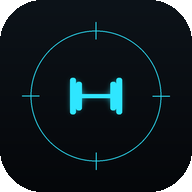
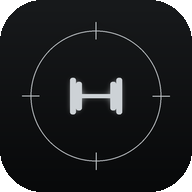
Retheme to monochrome tactical command-HUD palette
Shift the look toward a dark, modern military command screen (less blue, more
gunmetal/grey):
- Replace neon-cyan accent with light steel-grey; near-black gunmetal surfaces
- Desaturate background grid/glows; tone down all glows
- Use tactical red for personal-best badges/alerts (was amber); muted olive for
  "goal hit"/done states
- Recolor SVG charts (ring/line/bar) to steel + bright-ink readouts
- Regenerate reticle app icon in steel-grey on near-black; update SVG icon and
  theme-color / manifest colors
- Bump service-worker cache to v4 so installed apps pick up the new theme

diff --git a/css/styles.css b/css/styles.css
@@ -1,21 +1,22 @@
-/* ===== Gym Tracker — dark + neon blue, mobile-first ===== */
+/* ===== Field Ops Fitness — tactical monochrome (steel/grey + red), mobile-first ===== */
 :root {
-  --bg: #05070a;
-  --bg-2: #090d12;
-  --surface: #0d1319;
-  --surface-2: #141c25;
-  --line: rgba(120, 150, 160, .14);
-  --line-strong: rgba(90, 220, 235, .28);
-  --text: #d8e1e7;
-  --muted: #7d8a93;
-  --faint: #586772;
-  --accent: #2fe6ff;
-  --accent-2: #0bb6d6;
-  --accent-soft: rgba(47, 230, 255, .12);
-  --amber: #ffb02e;
-  --good: #46e08a;
-  --danger: #ff4d57;
-  --glow: 0 0 16px rgba(47, 230, 255, .40);
+  --bg: #0a0b0c;
+  --bg-2: #0e0f11;
+  --surface: #131517;
+  --surface-2: #1b1e21;
+  --line: rgba(255, 255, 255, .10);
+  --line-strong: rgba(255, 255, 255, .26);
+  --text: #e7e9ea;
+  --muted: #8b9196;
+  --faint: #5b6166;
+  --accent: #cdd2d6;          /* light steel — primary HUD highlight */
+  --accent-2: #8b9298;        /* mid gunmetal */
+  --accent-soft: rgba(205, 210, 214, .10);
+  --on-accent: #0c0d0e;       /* dark text on steel buttons */
+  --amber: #e2382d;           /* tactical red — records / standout markers */
+  --good: #9aa886;            /* muted olive — success/“goal hit” */
+  --danger: #e2382d;
+  --glow: 0 0 12px rgba(205, 212, 218, .14);
   --radius: 6px;
   --nav-h: 66px;
   --maxw: 520px;
@@ -33,11 +34,11 @@ html, body {
 }
 body {
   background:
-    linear-gradient(rgba(120, 160, 170, .035) 1px, transparent 1px) 0 0 / 100% 30px,
-    linear-gradient(90deg, rgba(120, 160, 170, .035) 1px, transparent 1px) 0 0 / 30px 100%,
-    radial-gradient(900px 520px at 82% -12%, rgba(47, 230, 255, .10), transparent 60%),
-    radial-gradient(760px 520px at -12% -4%, rgba(11, 182, 214, .08), transparent 58%),
-    radial-gradient(1000px 700px at 50% 120%, rgba(0, 0, 0, .55), transparent 60%),
+    linear-gradient(rgba(255, 255, 255, .022) 1px, transparent 1px) 0 0 / 100% 30px,
+    linear-gradient(90deg, rgba(255, 255, 255, .022) 1px, transparent 1px) 0 0 / 30px 100%,
+    radial-gradient(900px 520px at 82% -12%, rgba(255, 255, 255, .05), transparent 60%),
+    radial-gradient(760px 520px at -12% -4%, rgba(255, 255, 255, .035), transparent 58%),
+    radial-gradient(1000px 700px at 50% 120%, rgba(0, 0, 0, .6), transparent 60%),
     var(--bg);
   min-height: 100vh;
 }
@@ -94,7 +95,7 @@ body::after {
 .stat { padding: 12px 14px; display: flex; flex-direction: column; gap: 2px; }
 .stat-val { font-size: 1.4rem; font-weight: 800; letter-spacing: -.02em; }
 .stat-lbl { font-size: .72rem; color: var(--muted); text-transform: uppercase; letter-spacing: .04em; }
-.stat.accent { border-color: rgba(34, 211, 255, .35); box-shadow: var(--glow); }
+.stat.accent { border-color: var(--line-strong); box-shadow: var(--glow); }
 .stat.accent .stat-val { color: var(--accent); }
 
 /* ---- buttons ---- */
@@ -102,12 +103,12 @@ button { font-family: inherit; cursor: pointer; border: none; background: none; 
 .cta {
   display: flex; align-items: center; gap: 14px; width: 100%;
   background: linear-gradient(135deg, var(--accent), var(--accent-2));
-  color: #03161c; border-radius: var(--radius); padding: 16px 18px;
+  color: var(--on-accent); border-radius: var(--radius); padding: 16px 18px;
   font-weight: 800; box-shadow: var(--glow), inset 0 0 0 1px rgba(255,255,255,.15);
   text-align: left; text-transform: uppercase; letter-spacing: .06em;
   clip-path: polygon(0 0, 100% 0, 100% 100%, 12px 100%, 0 calc(100% - 12px));
 }
-.cta .icon { color: #03161c; }
+.cta .icon { color: var(--on-accent); }
 .cta span { display: flex; flex-direction: column; line-height: 1.2; }
 .cta strong { font-size: 1.02rem; }
 .cta em { font-style: normal; font-size: .76rem; opacity: .82; font-weight: 700; letter-spacing: .08em; }
@@ -122,15 +123,15 @@ button { font-family: inherit; cursor: pointer; border: none; background: none; 
   text-transform: uppercase; letter-spacing: .07em;
 }
 .btn:active { transform: scale(.98); }
-.btn.primary { background: linear-gradient(135deg, var(--accent), var(--accent-2)); color: #03161c; border: none; box-shadow: var(--glow); }
-.btn.danger-ghost { background: transparent; border-color: rgba(255, 93, 108, .4); color: var(--danger); margin-top: 8px; }
+.btn.primary { background: linear-gradient(135deg, var(--accent), var(--accent-2)); color: var(--on-accent); border: none; box-shadow: var(--glow); }
+.btn.danger-ghost { background: transparent; border-color: rgba(226, 56, 45, .45); color: var(--danger); margin-top: 8px; }
 .row-btns { display: grid; grid-template-columns: 1fr 1fr; gap: 10px; margin-bottom: 8px; }
 
 .mini { background: var(--surface-2); border: 1px dashed var(--line); color: var(--accent); padding: 9px 12px; border-radius: 10px; font-weight: 700; font-size: .82rem; }
 .mini.ghost { color: var(--muted); border-style: solid; }
 
 .icon-btn { display: inline-flex; align-items: center; justify-content: center; width: 42px; height: 42px; border-radius: 12px; background: var(--surface-2); border: 1px solid var(--line); color: var(--text); }
-.icon-btn.del { color: var(--danger); width: 38px; height: 38px; border-color: rgba(255,93,108,.3); }
+.icon-btn.del { color: var(--danger); width: 38px; height: 38px; border-color: rgba(226, 56, 45, .35); }
 .icon { display: inline-flex; }
 
 /* ---- charts ---- */
@@ -151,7 +152,7 @@ button { font-family: inherit; cursor: pointer; border: none; background: none; 
 
 /* ---- today day cards ---- */
 .day-card { display: flex; flex-direction: column; gap: 12px; }
-.day-card.next { border-color: rgba(34, 211, 255, .4); box-shadow: var(--glow); }
+.day-card.next { border-color: var(--line-strong); box-shadow: var(--glow); }
 .day-card-head { display: flex; align-items: center; gap: 10px; }
 .day-card-head h3 { font-size: 1.05rem; font-weight: 700; }
 .badge { background: var(--accent-soft); color: var(--accent); font-size: .68rem; font-weight: 800; padding: 4px 8px; border-radius: 999px; text-transform: uppercase; letter-spacing: .04em; }
@@ -170,7 +171,7 @@ button { font-family: inherit; cursor: pointer; border: none; background: none; 
 
 /* ---- session / logging ---- */
 .session-head { display: flex; align-items: center; gap: 12px; }
-.cue { display: flex; gap: 10px; align-items: center; background: var(--accent-soft); border: 1px solid rgba(34,211,255,.25); border-radius: 12px; padding: 11px 13px; font-size: .85rem; color: var(--text); }
+.cue { display: flex; gap: 10px; align-items: center; background: var(--accent-soft); border: 1px solid var(--line); border-radius: 12px; padding: 11px 13px; font-size: .85rem; color: var(--text); }
 .cue .icon { color: var(--accent); flex-shrink: 0; }
 
 .ex-card { display: flex; flex-direction: column; gap: 12px; }
@@ -179,7 +180,7 @@ button { font-family: inherit; cursor: pointer; border: none; background: none; 
 .target { color: var(--accent); font-size: .8rem; font-weight: 600; margin-top: 3px; }
 .ex-note { color: var(--muted); font-size: .82rem; line-height: 1.4; background: var(--bg-2); padding: 9px 11px; border-radius: 10px; }
 .rest-btn { background: var(--surface-2); border: 1px solid var(--line); color: var(--accent); font-weight: 700; font-size: .78rem; padding: 8px 11px; border-radius: 10px; white-space: nowrap; }
-.rest-btn.running { background: var(--accent); color: #04121a; box-shadow: var(--glow); }
+.rest-btn.running { background: var(--accent); color: var(--on-accent); box-shadow: var(--glow); }
 
 .set-table { display: flex; flex-direction: column; gap: 8px; }
 .set-row { display: grid; grid-template-columns: 38px 1fr 1fr 48px; gap: 8px; align-items: center; }
@@ -189,9 +190,9 @@ button { font-family: inherit; cursor: pointer; border: none; background: none; 
 .set-data.done .set-num { color: var(--good); }
 .num { background: var(--bg-2); border: 1px solid var(--line); color: var(--text); border-radius: 10px; padding: 12px 8px; font-size: 1rem; text-align: center; width: 100%; font-family: inherit; -moz-appearance: textfield; }
 .num::-webkit-outer-spin-button, .num::-webkit-inner-spin-button { -webkit-appearance: none; margin: 0; }
-.set-data.done .num { border-color: rgba(46, 230, 166, .35); }
+.set-data.done .num { border-color: rgba(154, 168, 134, .4); }
 .set-check { width: 44px; height: 44px; border-radius: 11px; background: var(--bg-2); border: 1px solid var(--line); display: flex; align-items: center; justify-content: center; color: var(--muted); }
-.set-check.on { background: var(--good); border-color: var(--good); color: #04140d; box-shadow: 0 0 14px rgba(46, 230, 166, .5); }
+.set-check.on { background: var(--good); border-color: var(--good); color: var(--on-accent); box-shadow: 0 0 14px rgba(154, 168, 134, .45); }
 .set-actions { display: flex; gap: 10px; }
 
 .notes { width: 100%; background: var(--bg-2); border: 1px solid var(--line); color: var(--text); border-radius: 10px; padding: 11px 12px; font-family: inherit; font-size: .92rem; min-height: 70px; resize: vertical; }
@@ -226,7 +227,7 @@ button { font-family: inherit; cursor: pointer; border: none; background: none; 
 .bw-val { font-size: 1.8rem; font-weight: 800; letter-spacing: -.02em; color: var(--accent); }
 .bw-diff { font-size: .8rem; font-weight: 600; color: var(--muted); }
 .bw-diff.up { color: var(--good); }
-.bw-diff.down { color: #ffd27a; }
+.bw-diff.down { color: var(--amber); }
 .bw-form { display: grid; grid-template-columns: 1fr 1fr auto; gap: 8px; margin-top: 12px; }
 .bw-add { width: auto; padding: 11px 18px; }
 @media (max-width: 360px) { .bw-form { grid-template-columns: 1fr 1fr; } .bw-add { grid-column: 1 / -1; } }
@@ -235,17 +236,17 @@ button { font-family: inherit; cursor: pointer; border: none; background: none; 
 .pb-grid { display: grid; grid-template-columns: 1fr 1fr; gap: 10px; }
 .pb-badge { position: relative; display: flex; align-items: center; gap: 10px; background: var(--bg-2); border: 1px solid var(--line); border-radius: 12px; padding: 11px 12px; }
 .pb-badge .icon { color: var(--faint); flex-shrink: 0; }
-.pb-badge.new { border-color: rgba(255, 176, 46, .5); box-shadow: 0 0 16px rgba(255, 176, 46, .3); }
+.pb-badge.new { border-color: rgba(226, 56, 45, .5); box-shadow: 0 0 16px rgba(226, 56, 45, .28); }
 .pb-badge.new .icon { color: var(--amber); }
 .pb-body { display: flex; flex-direction: column; gap: 1px; min-width: 0; }
 .pb-name { font-size: .72rem; color: var(--muted); white-space: nowrap; overflow: hidden; text-overflow: ellipsis; text-transform: uppercase; letter-spacing: .05em; }
 .pb-val { font-size: 1.05rem; font-weight: 800; color: var(--text); }
 .pb-detail { font-size: .68rem; color: var(--faint); }
-.pb-new { position: absolute; top: -7px; right: -6px; background: linear-gradient(135deg, var(--amber), #e7860f); color: #1a0f00; font-size: .56rem; font-weight: 800; letter-spacing: .08em; padding: 3px 6px; border-radius: 3px; box-shadow: 0 0 12px rgba(255, 176, 46, .55); }
+.pb-new { position: absolute; top: -7px; right: -6px; background: linear-gradient(135deg, var(--amber), #a82018); color: #fff; font-size: .56rem; font-weight: 800; letter-spacing: .08em; padding: 3px 6px; border-radius: 3px; box-shadow: 0 0 12px rgba(226, 56, 45, .5); }
 
 /* inline PB tag during logging */
 .ex-title { display: flex; align-items: center; gap: 8px; flex-wrap: wrap; }
-.pb-tag { background: rgba(255, 176, 46, .15); color: var(--amber); font-size: .64rem; font-weight: 800; padding: 3px 8px; border-radius: 3px; letter-spacing: .06em; text-transform: uppercase; animation: pop .3s ease; }
+.pb-tag { background: rgba(226, 56, 45, .16); color: var(--amber); font-size: .64rem; font-weight: 800; padding: 3px 8px; border-radius: 3px; letter-spacing: .06em; text-transform: uppercase; animation: pop .3s ease; }
 @keyframes pop { from { transform: scale(.6); opacity: 0; } to { transform: scale(1); opacity: 1; } }
 
 /* ---- hydration ---- */
@@ -253,15 +254,15 @@ button { font-family: inherit; cursor: pointer; border: none; background: none; 
 .water-readout { display: flex; flex-direction: column; gap: 1px; }
 .water-count { font-family: var(--mono); font-size: 1.55rem; font-weight: 800; color: var(--accent); }
 .water-sub { font-size: .72rem; color: var(--muted); text-transform: uppercase; letter-spacing: .05em; }
-.water-done { display: inline-flex; align-items: center; gap: 5px; color: var(--good); font-size: .66rem; font-weight: 800; text-transform: uppercase; letter-spacing: .06em; border: 1px solid rgba(70, 224, 138, .4); padding: 5px 9px; border-radius: 4px; white-space: nowrap; }
+.water-done { display: inline-flex; align-items: center; gap: 5px; color: var(--good); font-size: .66rem; font-weight: 800; text-transform: uppercase; letter-spacing: .06em; border: 1px solid rgba(154, 168, 134, .45); padding: 5px 9px; border-radius: 4px; white-space: nowrap; }
 .water-glasses { display: flex; flex-wrap: wrap; gap: 8px; margin-bottom: 12px; }
 .glass { width: 40px; height: 44px; display: flex; align-items: center; justify-content: center; border: 1px solid var(--line); border-radius: 6px; background: var(--bg-2); color: var(--faint); transition: transform .12s ease, color .15s ease, box-shadow .2s ease, background .2s ease; }
-.glass.filled { color: var(--accent); border-color: rgba(47, 230, 255, .4); background: rgba(47, 230, 255, .1); box-shadow: var(--glow); }
+.glass.filled { color: var(--accent); border-color: var(--line-strong); background: var(--accent-soft); box-shadow: var(--glow); }
 .glass:active { transform: scale(.88); }
 .water-controls { display: grid; grid-template-columns: auto 1fr; gap: 10px; }
 .water-btn { background: var(--surface-2); border: 1px solid var(--line); color: var(--text); border-radius: var(--radius); font-weight: 800; font-size: 1.15rem; padding: 11px 0; min-width: 56px; }
-.water-btn.add { display: inline-flex; align-items: center; justify-content: center; gap: 8px; background: linear-gradient(135deg, var(--accent), var(--accent-2)); color: #03161c; border: none; box-shadow: var(--glow); font-size: .82rem; text-transform: uppercase; letter-spacing: .07em; }
-.water-btn.add .icon { color: #03161c; }
+.water-btn.add { display: inline-flex; align-items: center; justify-content: center; gap: 8px; background: linear-gradient(135deg, var(--accent), var(--accent-2)); color: var(--on-accent); border: none; box-shadow: var(--glow); font-size: .82rem; text-transform: uppercase; letter-spacing: .07em; }
+.water-btn.add .icon { color: var(--on-accent); }
 .water-btn:active { transform: scale(.97); }
 
 /* ---- bottom nav ---- */
@@ -274,7 +275,7 @@ button { font-family: inherit; cursor: pointer; border: none; background: none; 
   backdrop-filter: saturate(150%) blur(14px);
   -webkit-backdrop-filter: saturate(150%) blur(14px);
   border-top: 1px solid var(--line-strong);
-  box-shadow: 0 -1px 0 rgba(47, 230, 255, .08), 0 -10px 30px rgba(0, 0, 0, .5);
+  box-shadow: 0 -1px 0 rgba(255, 255, 255, .06), 0 -10px 30px rgba(0, 0, 0, .5);
 }
 .nav-item {
   flex: 1; display: flex; flex-direction: column; align-items: center; justify-content: center; gap: 3px;
@@ -283,7 +284,7 @@ button { font-family: inherit; cursor: pointer; border: none; background: none; 
 }
 .nav-item .icon { transition: transform .15s ease; }
 .nav-item.active { color: var(--accent); }
-.nav-item.active .icon { transform: translateY(-1px); filter: drop-shadow(0 0 8px rgba(34, 211, 255, .6)); }
+.nav-item.active .icon { transform: translateY(-1px); filter: drop-shadow(0 0 8px rgba(205, 212, 218, .5)); }
 
 /* ---- toast ---- */
 .toast {
@@ -294,5 +295,5 @@ button { font-family: inherit; cursor: pointer; border: none; background: none; 
   box-shadow: 0 10px 30px rgba(0,0,0,.4);
 }
 .toast.show { opacity: 1; transform: translate(-50%, 0); }
-.toast.ok { border-color: rgba(34, 211, 255, .4); }
-.toast.err { border-color: rgba(255, 93, 108, .5); color: #ffd2d6; }
+.toast.ok { border-color: var(--line-strong); }
+.toast.err { border-color: rgba(226, 56, 45, .5); color: #f3b4b0; }

diff --git a/js/charts.js b/js/charts.js
@@ -1,7 +1,14 @@
 // charts.js — tiny dependency-free SVG charts.
 
 const NS = 'http://www.w3.org/2000/svg';
-const ACCENT = '#22d3ff';
+// Tactical monochrome palette (matches CSS tokens).
+const ACCENT = '#cdd2d6';                 // light steel — lines/fills
+const ACCENT_GLOW = 'rgba(205,212,218,.45)';
+const INK = '#e7e9ea';                    // bright readout text
+const MUTE = '#8b9196';                   // muted labels
+const FAINT = '#5b6166';                  // axis labels
+const GRID = 'rgba(255,255,255,.06)';
+const DOT_FILL = '#0e0f11';               // dot centre (matches --bg-2)
 
 function svgEl(tag, attrs) {
   const el = document.createElementNS(NS, tag);
@@ -25,13 +32,13 @@ export function progressRing(value, max, { size = 132, stroke = 12, label, sub }
     stroke: ACCENT, 'stroke-width': stroke, 'stroke-linecap': 'round',
     'stroke-dasharray': c, 'stroke-dashoffset': c * (1 - pct),
     transform: `rotate(-90 ${size / 2} ${size / 2})`,
-    style: 'filter:drop-shadow(0 0 6px rgba(34,211,255,.6));transition:stroke-dashoffset .6s ease',
+    style: `filter:drop-shadow(0 0 6px ${ACCENT_GLOW});transition:stroke-dashoffset .6s ease`,
   });
   svg.appendChild(arc);
 
   const big = svgEl('text', {
     x: size / 2, y: size / 2 - 2, 'text-anchor': 'middle', 'dominant-baseline': 'middle',
-    fill: '#e9eef5', 'font-size': size * 0.26, 'font-weight': 700,
+    fill: INK, 'font-size': size * 0.26, 'font-weight': 700,
   });
   big.textContent = label != null ? label : `${Math.round(pct * 100)}%`;
   svg.appendChild(big);
@@ -39,7 +46,7 @@ export function progressRing(value, max, { size = 132, stroke = 12, label, sub }
   if (sub) {
     const small = svgEl('text', {
       x: size / 2, y: size / 2 + size * 0.17, 'text-anchor': 'middle',
-      fill: '#8b98a8', 'font-size': size * 0.1, 'font-weight': 600,
+      fill: MUTE, 'font-size': size * 0.1, 'font-weight': 600,
     });
     small.textContent = sub;
     svg.appendChild(small);
@@ -53,7 +60,7 @@ export function lineChart(points, { height = 160, unit = '' } = {}) {
   const svg = svgEl('svg', { viewBox: `0 0 ${W} ${H}`, class: 'chart', preserveAspectRatio: 'none' });
 
   if (!points.length) {
-    const t = svgEl('text', { x: W / 2, y: H / 2, 'text-anchor': 'middle', fill: '#8b98a8', 'font-size': 13 });
+    const t = svgEl('text', { x: W / 2, y: H / 2, 'text-anchor': 'middle', fill: MUTE, 'font-size': 13 });
     t.textContent = 'No data yet — log a session to see progress.';
     svg.appendChild(t);
     return svg;
@@ -72,8 +79,8 @@ export function lineChart(points, { height = 160, unit = '' } = {}) {
   for (let g = 0; g <= 2; g++) {
     const v = minV + (range * g) / 2;
     const gy = y(v);
-    svg.appendChild(svgEl('line', { x1: padL, y1: gy, x2: W - padR, y2: gy, stroke: 'rgba(255,255,255,.06)', 'stroke-width': 1 }));
-    const lbl = svgEl('text', { x: padL - 6, y: gy + 3, 'text-anchor': 'end', fill: '#6b7787', 'font-size': 9 });
+    svg.appendChild(svgEl('line', { x1: padL, y1: gy, x2: W - padR, y2: gy, stroke: GRID, 'stroke-width': 1 }));
+    const lbl = svgEl('text', { x: padL - 6, y: gy + 3, 'text-anchor': 'end', fill: FAINT, 'font-size': 9 });
     lbl.textContent = Math.round(v);
     svg.appendChild(lbl);
   }
@@ -93,15 +100,15 @@ export function lineChart(points, { height = 160, unit = '' } = {}) {
   svg.appendChild(svgEl('polyline', {
     points: linePts, fill: 'none', stroke: ACCENT, 'stroke-width': 2.5,
     'stroke-linejoin': 'round', 'stroke-linecap': 'round',
-    style: 'filter:drop-shadow(0 0 4px rgba(34,211,255,.5))',
+    style: `filter:drop-shadow(0 0 4px ${ACCENT_GLOW})`,
   }));
 
   // dots + last-value label
   points.forEach((p, i) => {
-    svg.appendChild(svgEl('circle', { cx: x(i), cy: y(p.value), r: 3, fill: '#0b0f17', stroke: ACCENT, 'stroke-width': 2 }));
+    svg.appendChild(svgEl('circle', { cx: x(i), cy: y(p.value), r: 3, fill: DOT_FILL, stroke: ACCENT, 'stroke-width': 2 }));
   });
   const last = points[points.length - 1];
-  const lt = svgEl('text', { x: x(points.length - 1), y: y(last.value) - 8, 'text-anchor': 'end', fill: '#e9eef5', 'font-size': 11, 'font-weight': 700 });
+  const lt = svgEl('text', { x: x(points.length - 1), y: y(last.value) - 8, 'text-anchor': 'end', fill: INK, 'font-size': 11, 'font-weight': 700 });
   lt.textContent = `${last.value}${unit}`;
   svg.appendChild(lt);
 
@@ -124,15 +131,15 @@ export function barChart(bars, { height = 150, unit = '' } = {}) {
     const by = padT + innerH - h;
     svg.appendChild(svgEl('rect', {
       x: bx, y: by, width: bw, height: Math.max(h, 1), rx: 5,
-      fill: b.value > 0 ? ACCENT : 'rgba(255,255,255,.12)',
-      style: b.value > 0 ? 'filter:drop-shadow(0 0 5px rgba(34,211,255,.45))' : '',
+      fill: b.value > 0 ? ACCENT : 'rgba(255,255,255,.10)',
+      style: b.value > 0 ? `filter:drop-shadow(0 0 5px ${ACCENT_GLOW})` : '',
     }));
     if (b.value > 0) {
-      const vt = svgEl('text', { x: bx + bw / 2, y: by - 4, 'text-anchor': 'middle', fill: '#e9eef5', 'font-size': 10, 'font-weight': 700 });
+      const vt = svgEl('text', { x: bx + bw / 2, y: by - 4, 'text-anchor': 'middle', fill: INK, 'font-size': 10, 'font-weight': 700 });
       vt.textContent = `${b.value}${unit}`;
       svg.appendChild(vt);
     }
-    const lt = svgEl('text', { x: bx + bw / 2, y: H - 8, 'text-anchor': 'middle', fill: '#8b98a8', 'font-size': 10 });
+    const lt = svgEl('text', { x: bx + bw / 2, y: H - 8, 'text-anchor': 'middle', fill: MUTE, 'font-size': 10 });
     lt.textContent = b.label;
     svg.appendChild(lt);
   });

diff --git a/index.html b/index.html
@@ -3,7 +3,7 @@
 <head>
   <meta charset="UTF-8" />
   <meta name="viewport" content="width=device-width, initial-scale=1, viewport-fit=cover, maximum-scale=1" />
-  <meta name="theme-color" content="#05070a" />
+  <meta name="theme-color" content="#0a0b0c" />
   <meta name="description" content="Tactical gym tracker — log sessions, run a 4-week mission, watch your progress." />
   <title>Field Ops Fitness</title>
   <link rel="manifest" href="./manifest.webmanifest" />

diff --git a/sw.js b/sw.js
@@ -1,5 +1,5 @@
 // sw.js — offline cache for the PWA. Bump CACHE when files change.
-const CACHE = 'gym-tracker-v3';
+const CACHE = 'gym-tracker-v4';
 const ASSETS = [
   './',
   './index.html',

diff --git a/icons/make_icons.py b/icons/make_icons.py
@@ -2,9 +2,9 @@
 from PIL import Image, ImageDraw, ImageFilter
 import os
 
-BG_TOP = (13, 19, 25)
-BG_BOT = (5, 7, 10)
-ACCENT = (47, 230, 255)
+BG_TOP = (24, 26, 28)
+BG_BOT = (8, 9, 10)
+ACCENT = (205, 210, 214)
 OUT = os.path.dirname(__file__)
 
 

diff --git a/README.md b/README.md
@@ -2,8 +2,9 @@
 
 A mobile-first, installable web app to help a young athlete get fit in the gym:
 run a 4-week "mission", log every set, and watch progress on a dashboard.
-Tactical black-ops look — near-black gunmetal UI, neon-cyan HUD accents, a
-reticle app icon, and a monospace readout feel.
+Tactical command-HUD look — near-black gunmetal UI, monochrome steel-grey
+hairlines and accents, tactical red for records/alerts, a reticle app icon, and
+a monospace readout feel.
 
 Built as a **zero-dependency PWA** — plain HTML/CSS/JS, no build step, no backend.
 All data is stored **on the device** (browser `localStorage`), so it works fully
